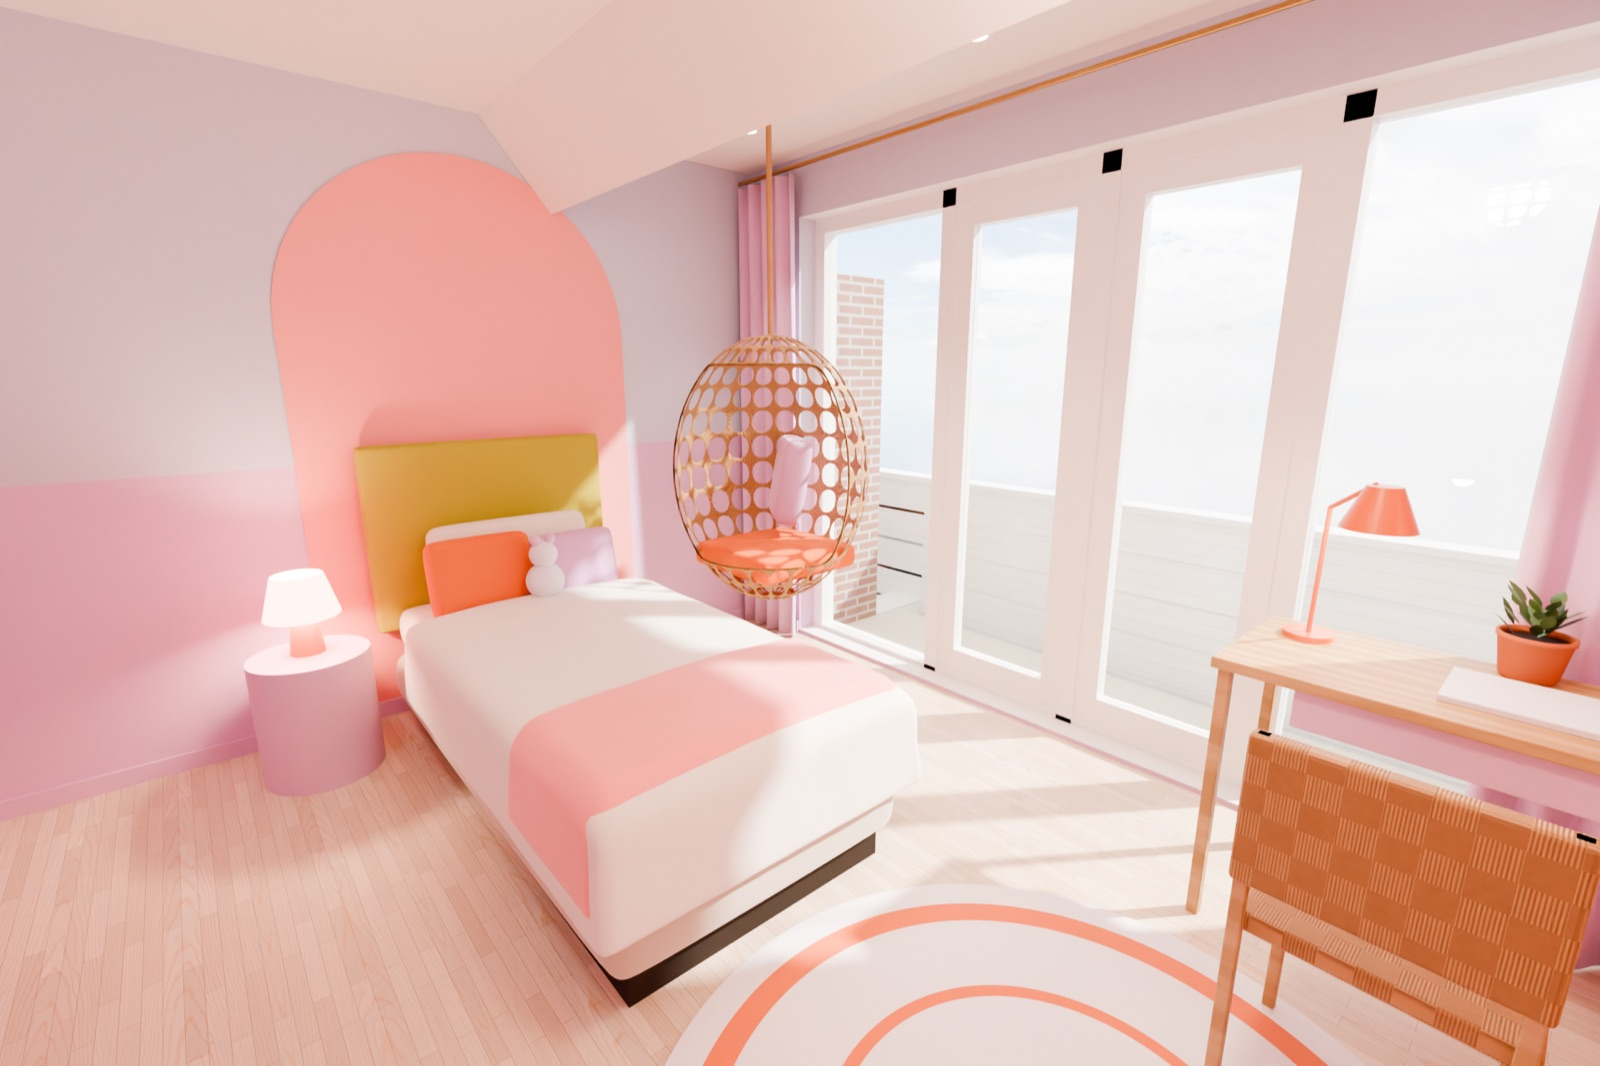
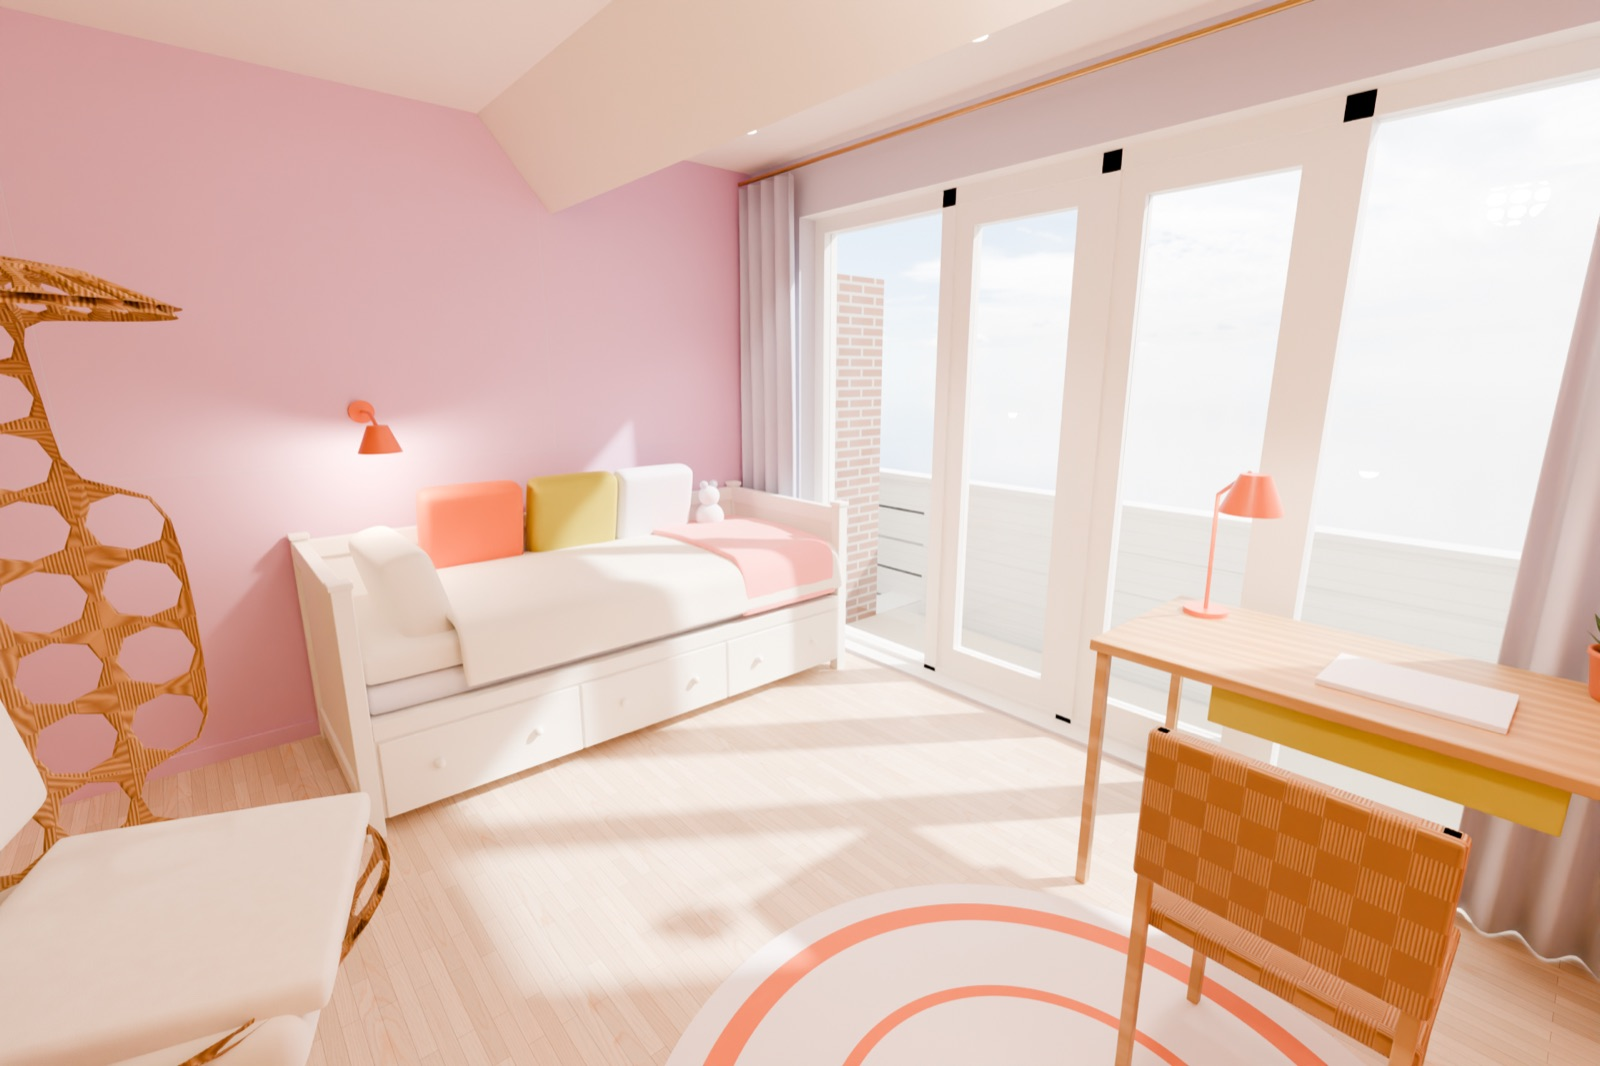
Meisjeskamer: avondversies en sfeerbeelden met de nieuwe inrichting

diff --git a/index.html b/index.html
@@ -163,7 +163,7 @@ const LINKS = {
 };
 const VOLGORDE = ['woonkamer', 'vleugel', 'eetzone', 'keuken', 'erker', 'eiland', 'speelkamer', 'hal', 'slaapkamer', 'slaapkamerbed', 'badkamer',
                   'overloop', 'gang', 'portaal', 'ouders', 'oudersraam', 'kinderkamer', 'kinderbedstede', 'meisjeskamer', 'meisjesleeshoek', 'inloopkast'];
-const HEEFT_FOTO = new Set(['badkamer-avond', 'badkamer', 'eetzone-avond', 'eetzone', 'eiland-avond', 'eiland', 'erker-avond', 'erker', 'gang-avond', 'gang', 'hal-avond', 'hal', 'inloopkast-avond', 'inloopkast', 'keuken-avond', 'keuken', 'kinderbedstede-avond', 'kinderbedstede', 'kinderkamer-avond', 'kinderkamer', 'ouders-avond', 'ouders', 'oudersraam-avond', 'oudersraam', 'overloop-avond', 'overloop', 'portaal-avond', 'portaal', 'slaapkamer-avond', 'slaapkamer', 'slaapkamerbed-avond', 'slaapkamerbed', 'speelkamer-avond', 'speelkamer', 'vleugel-avond', 'vleugel', 'woonkamer-avond', 'woonkamer']);   // AI-versies die er zijn
+const HEEFT_FOTO = new Set(['badkamer-avond', 'badkamer', 'eetzone-avond', 'eetzone', 'eiland-avond', 'eiland', 'erker-avond', 'erker', 'gang-avond', 'gang', 'hal-avond', 'hal', 'inloopkast-avond', 'inloopkast', 'keuken-avond', 'keuken', 'kinderbedstede-avond', 'kinderbedstede', 'kinderkamer-avond', 'kinderkamer', 'meisjeskamer-avond', 'meisjeskamer', 'meisjesleeshoek-avond', 'meisjesleeshoek', 'ouders-avond', 'ouders', 'oudersraam-avond', 'oudersraam', 'overloop-avond', 'overloop', 'portaal-avond', 'portaal', 'slaapkamer-avond', 'slaapkamer', 'slaapkamerbed-avond', 'slaapkamerbed', 'speelkamer-avond', 'speelkamer', 'vleugel-avond', 'vleugel', 'woonkamer-avond', 'woonkamer']);   // AI-versies die er zijn
 const HEEFT_PANO = new Set(['badkamer-avond', 'badkamer', 'eetzone-avond', 'eetzone', 'eiland-avond', 'eiland', 'erker-avond', 'erker', 'gang-avond', 'gang', 'hal-avond', 'hal', 'inloopkast-avond', 'inloopkast', 'keuken-avond', 'keuken', 'kinderbedstede-avond', 'kinderbedstede', 'kinderkamer-avond', 'kinderkamer', 'meisjeskamer-avond', 'meisjeskamer', 'meisjesleeshoek-avond', 'meisjesleeshoek', 'ouders-avond', 'ouders', 'oudersraam-avond', 'oudersraam', 'overloop-avond', 'overloop', 'portaal-avond', 'portaal', 'slaapkamer-avond', 'slaapkamer', 'slaapkamerbed-avond', 'slaapkamerbed', 'speelkamer-avond', 'speelkamer', 'vleugel-avond', 'vleugel', 'woonkamer-avond', 'woonkamer']);   // 3D-renders die er zijn (publiceer_site.sh); standplaatsen zonder render vallen weg
 for (const id of Object.keys(SPOTS)) if (!HEEFT_PANO.has(id)) { delete SPOTS[id]; delete LINKS[id]; }
 VOLGORDE.splice(0, VOLGORDE.length, ...VOLGORDE.filter(id => SPOTS[id]));
